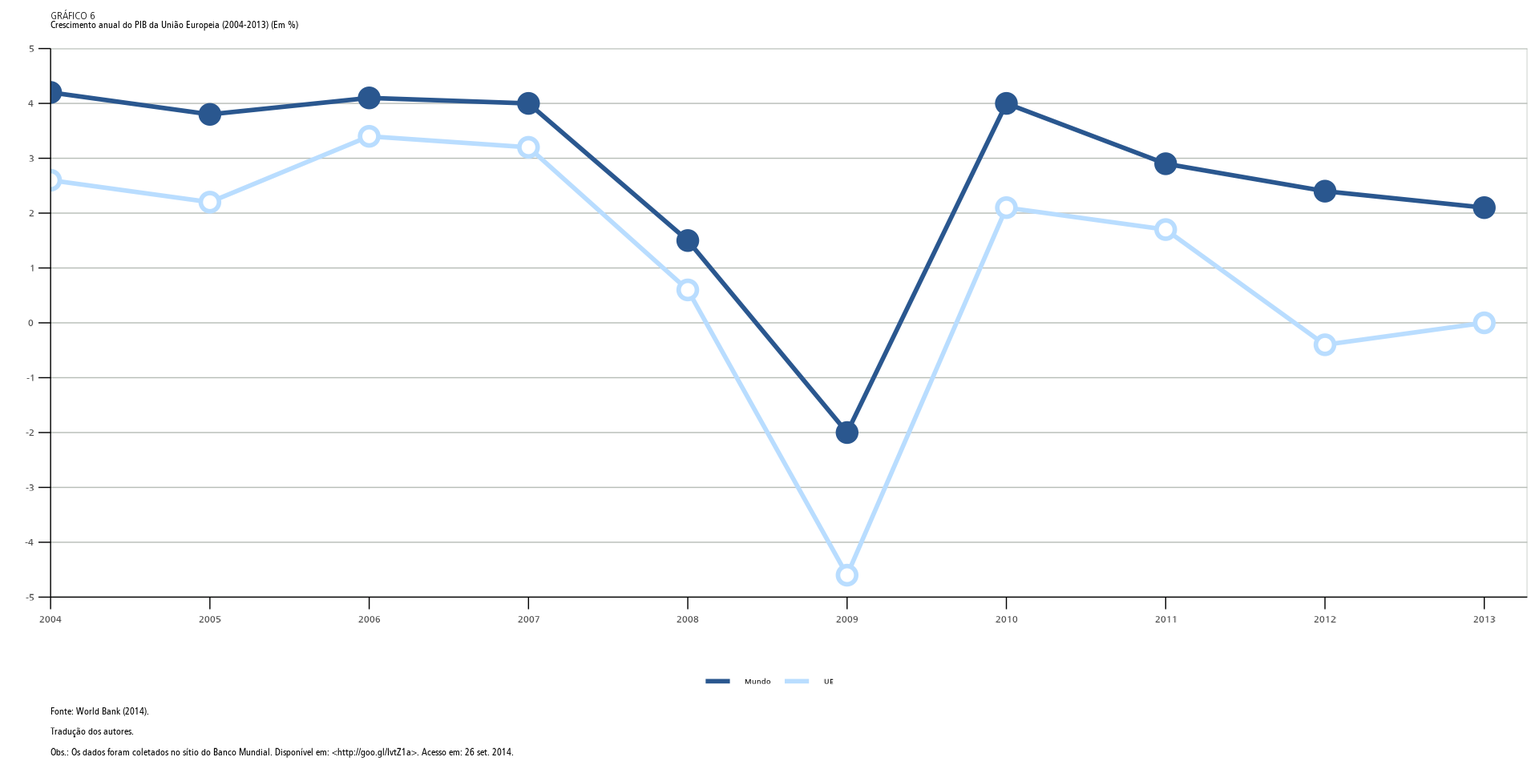
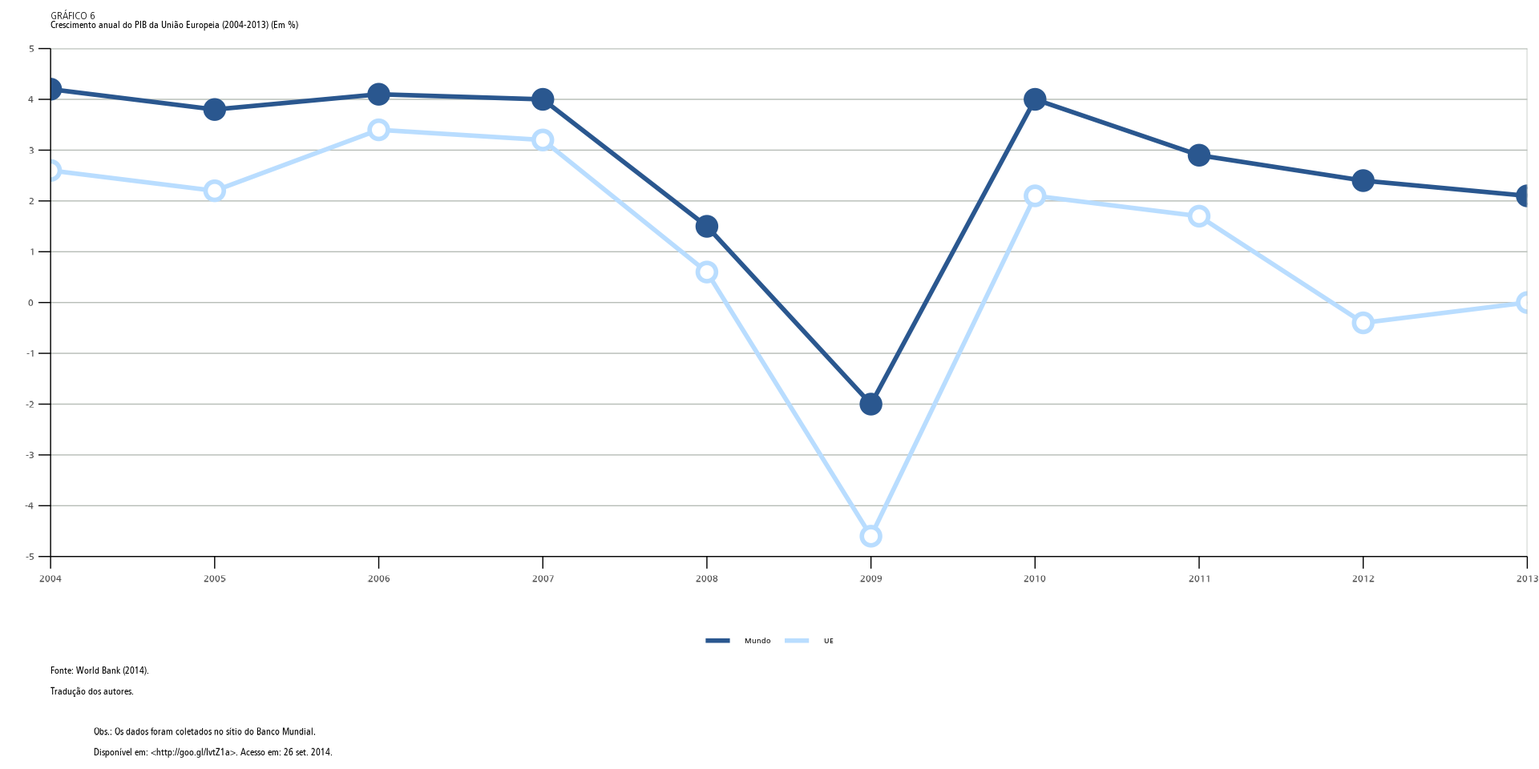
Deploying to gh-pages from @ ipeadata-lab/ipeaplot@67b5473a3718dc9c7462b4f38d9dd5089b049cbb 🚀

diff --git a/articles/cookbook.html b/articles/cookbook.html
@@ -71,7 +71,7 @@
   <main id="main" class="col-md-9"><div class="page-header">
       <img src="" class="logo" alt=""><h1>Comparativo ipeaplot</h1>
             
-            <h4 data-toc-skip class="date">2023-08-30</h4>
+            <h4 data-toc-skip class="date">2023-08-31</h4>
       
       <small class="dont-index">Source: <a href="https://github.com/ipeadata-lab/ipeaplot/blob/HEAD/vignettes/cookbook.Rmd" class="external-link"><code>vignettes/cookbook.Rmd</code></a></small>
       <div class="d-none name"><code>cookbook.Rmd</code></div>
@@ -212,9 +212,11 @@ github:</p>
 <span>                                 dec <span class="op">=</span> <span class="st">","</span>, encoding <span class="op">=</span> <span class="st">'Latin-1'</span><span class="op">)</span></span>
 <span></span>
 <span><span class="co">######## Salvando graficos no formato Rdata</span></span>
-<span><span class="fu"><a href="https://rdrr.io/r/base/save.html" class="external-link">save</a></span><span class="op">(</span><span class="va">base_graf1</span>,<span class="va">base_graf2</span>,<span class="va">base_graf3</span>,<span class="va">base_graf5</span>,<span class="va">base_graf6</span>,<span class="va">base_graf7</span>,<span class="va">base_graf8</span>,<span class="va">base_graf9</span>, <span class="va">base_graf10</span>,</span>
+<span><span class="fu"><a href="https://rdrr.io/r/base/save.html" class="external-link">save</a></span><span class="op">(</span><span class="va">base_graf1</span>,<span class="va">base_graf2</span>,<span class="va">base_graf3</span>,<span class="va">base_graf5</span>,<span class="va">base_graf6</span>,<span class="va">base_graf7</span>,<span class="va">base_graf8</span>,</span>
+<span>     <span class="va">base_graf9</span>, <span class="va">base_graf10</span>,</span>
 <span>     file<span class="op">=</span><span class="st">'bases_de_dados.Rdata'</span><span class="op">)</span></span></code></pre></div>
-<p>Gráfico 1 - Original [1] FALSE</p>
+<p>Gráfico 1 - Original
+<img src="prints_original/grafico1.png" width="100%"></p>
 <p>Gráfico 1 - Padrão ipea</p>
 <div class="sourceCode" id="cb4"><pre class="downlit sourceCode r">
 <code class="sourceCode R"><span><span class="va">graf1</span> <span class="op">&lt;-</span> <span class="fu"><a href="https://ggplot2.tidyverse.org/reference/ggplot.html" class="external-link">ggplot</a></span><span class="op">(</span>data<span class="op">=</span><span class="va">base_graf1</span>, <span class="fu"><a href="https://ggplot2.tidyverse.org/reference/aes.html" class="external-link">aes</a></span><span class="op">(</span>x<span class="op">=</span><span class="fu"><a href="https://rdrr.io/r/base/numeric.html" class="external-link">as.numeric</a></span><span class="op">(</span><span class="fu"><a href="https://rdrr.io/r/base/character.html" class="external-link">as.character</a></span><span class="op">(</span><span class="va">Ano</span><span class="op">)</span><span class="op">)</span>, y<span class="op">=</span><span class="va">Populacao</span><span class="op">)</span><span class="op">)</span> <span class="op">+</span></span>
@@ -233,12 +235,10 @@ github:</p>
 <span></span>
 <span><span class="va">graf1</span></span></code></pre></div>
 <p><img src="cookbook_files/figure-html/unnamed-chunk-6-1.png" width="100%"></p>
-<p>Gráfico 2 - Original</p>
-<div class="sourceCode" id="cb5"><pre class="downlit sourceCode r">
-<code class="sourceCode R"><span><span class="fu">knitr</span><span class="fu">::</span><span class="fu"><a href="https://rdrr.io/pkg/knitr/man/output_type.html" class="external-link">is_html_output</a></span><span class="op">(</span><span class="fu">knitr</span><span class="fu">::</span><span class="fu"><a href="https://rdrr.io/pkg/knitr/man/include_graphics.html" class="external-link">include_graphics</a></span><span class="op">(</span><span class="st">"https://github.com/ipeadata-lab/ipeaplot/blob/master/vignettes/prints_original/grafico2.png?raw=true"</span><span class="op">)</span><span class="op">)</span></span>
-<span><span class="co">#&gt; [1] FALSE</span></span></code></pre></div>
+<p>Gráfico 2 - Original
+<img src="prints_original/grafico2.png" width="100%"></p>
 <p>Gráfico 2 - Padrão Ipea</p>
-<div class="sourceCode" id="cb6"><pre class="downlit sourceCode r">
+<div class="sourceCode" id="cb5"><pre class="downlit sourceCode r">
 <code class="sourceCode R"><span><span class="va">y.breaks</span> <span class="op">&lt;-</span> <span class="fu"><a href="https://rdrr.io/r/base/cumsum.html" class="external-link">cumsum</a></span><span class="op">(</span><span class="va">base_graf2</span><span class="op">$</span><span class="va">percentual</span><span class="op">)</span> <span class="op">-</span> <span class="op">(</span><span class="va">base_graf2</span><span class="op">$</span><span class="va">percentual</span><span class="op">)</span><span class="op">/</span><span class="fl">2</span></span>
 <span><span class="va">y.breaks</span></span>
 <span><span class="co">#&gt; [1] 12.5 39.0 62.0 77.0 91.5</span></span>
@@ -259,12 +259,10 @@ github:</p>
 <span></span>
 <span><span class="va">graf2</span></span></code></pre></div>
 <p><img src="cookbook_files/figure-html/unnamed-chunk-8-1.png" width="100%"></p>
-<p>Gráfico 3 - Original</p>
-<div class="sourceCode" id="cb7"><pre class="downlit sourceCode r">
-<code class="sourceCode R"><span><span class="fu">knitr</span><span class="fu">::</span><span class="fu"><a href="https://rdrr.io/pkg/knitr/man/output_type.html" class="external-link">is_html_output</a></span><span class="op">(</span><span class="fu">knitr</span><span class="fu">::</span><span class="fu"><a href="https://rdrr.io/pkg/knitr/man/include_graphics.html" class="external-link">include_graphics</a></span><span class="op">(</span><span class="st">"https://github.com/ipeadata-lab/ipeaplot/blob/master/vignettes/prints_original/grafico3.png?raw=true"</span><span class="op">)</span><span class="op">)</span></span>
-<span><span class="co">#&gt; [1] FALSE</span></span></code></pre></div>
+<p>Gráfico 3 - Original
+<img src="prints_original/grafico3.png" width="100%"></p>
 <p>Gráfico 3 - Padrão Ipea</p>
-<div class="sourceCode" id="cb8"><pre class="downlit sourceCode r">
+<div class="sourceCode" id="cb6"><pre class="downlit sourceCode r">
 <code class="sourceCode R"><span><span class="va">base_graf3</span><span class="op">$</span><span class="va">Ano</span> <span class="op">&lt;-</span> <span class="fu"><a href="https://rdrr.io/r/base/numeric.html" class="external-link">as.numeric</a></span><span class="op">(</span><span class="fu"><a href="https://rdrr.io/r/base/character.html" class="external-link">as.character</a></span><span class="op">(</span><span class="va">base_graf3</span><span class="op">$</span><span class="va">Ano</span><span class="op">)</span><span class="op">)</span></span>
 <span><span class="va">ref</span> <span class="op">&lt;-</span> <span class="op">(</span><span class="fu"><a href="https://rdrr.io/r/base/subset.html" class="external-link">subset</a></span><span class="op">(</span><span class="va">base_graf3</span>,<span class="fu"><a href="https://rdrr.io/r/base/substr.html" class="external-link">substr</a></span><span class="op">(</span><span class="va">Ano</span>,<span class="fl">4</span>,<span class="fl">4</span><span class="op">)</span> <span class="op"><a href="https://rdrr.io/r/base/match.html" class="external-link">%in%</a></span> <span class="fu"><a href="https://rdrr.io/r/base/c.html" class="external-link">c</a></span><span class="op">(</span><span class="st">'5'</span>,<span class="st">'0'</span><span class="op">)</span><span class="op">)</span><span class="op">)</span></span>
 <span></span>
@@ -283,12 +281,10 @@ github:</p>
 <span></span>
 <span><span class="va">graf3</span></span></code></pre></div>
 <p><img src="cookbook_files/figure-html/unnamed-chunk-10-1.png" width="100%"></p>
-<p>Gráfico 4 - Padrão Original</p>
-<div class="sourceCode" id="cb9"><pre class="downlit sourceCode r">
-<code class="sourceCode R"><span><span class="fu">knitr</span><span class="fu">::</span><span class="fu"><a href="https://rdrr.io/pkg/knitr/man/output_type.html" class="external-link">is_html_output</a></span><span class="op">(</span><span class="fu">knitr</span><span class="fu">::</span><span class="fu"><a href="https://rdrr.io/pkg/knitr/man/include_graphics.html" class="external-link">include_graphics</a></span><span class="op">(</span><span class="st">"https://github.com/ipeadata-lab/ipeaplot/blob/master/vignettes/prints_original/grafico4.png?raw=true"</span><span class="op">)</span><span class="op">)</span></span>
-<span><span class="co">#&gt; [1] FALSE</span></span></code></pre></div>
+<p>Gráfico 4 - Padrão Original
+<img src="prints_original/grafico4.png" width="100%"></p>
 <p>Gráfico 4 - Padrão Ipea</p>
-<div class="sourceCode" id="cb10"><pre class="downlit sourceCode r">
+<div class="sourceCode" id="cb7"><pre class="downlit sourceCode r">
 <code class="sourceCode R"><span><span class="va">temp</span> <span class="op">&lt;-</span> <span class="va">base_graf4</span> <span class="op"><a href="https://magrittr.tidyverse.org/reference/pipe.html" class="external-link">%&gt;%</a></span> <span class="fu"><a href="https://dplyr.tidyverse.org/reference/distinct.html" class="external-link">distinct</a></span><span class="op">(</span><span class="va">pos</span>, .keep_all <span class="op">=</span> <span class="cn">T</span><span class="op">)</span></span>
 <span><span class="va">base_graf4</span> <span class="op">&lt;-</span> <span class="va">base_graf4</span> <span class="op"><a href="https://magrittr.tidyverse.org/reference/pipe.html" class="external-link">%&gt;%</a></span> <span class="fu"><a href="https://dplyr.tidyverse.org/reference/group_by.html" class="external-link">group_by</a></span><span class="op">(</span><span class="va">pos</span><span class="op">)</span> <span class="op"><a href="https://magrittr.tidyverse.org/reference/pipe.html" class="external-link">%&gt;%</a></span> <span class="fu"><a href="https://dplyr.tidyverse.org/reference/mutate.html" class="external-link">mutate</a></span><span class="op">(</span>cum_sum <span class="op">=</span> <span class="fu"><a href="https://rdrr.io/r/base/cumsum.html" class="external-link">cumsum</a></span><span class="op">(</span><span class="va">Gasto</span><span class="op">)</span><span class="op">)</span></span>
 <span><span class="va">base_graf4</span><span class="op">$</span><span class="va">Pais</span> <span class="op">&lt;-</span> <span class="fu">forcats</span><span class="fu">::</span><span class="fu"><a href="https://forcats.tidyverse.org/reference/fct_reorder.html" class="external-link">fct_reorder</a></span><span class="op">(</span><span class="va">base_graf4</span><span class="op">$</span><span class="va">Pais</span>, <span class="fu"><a href="https://dplyr.tidyverse.org/reference/desc.html" class="external-link">desc</a></span><span class="op">(</span><span class="va">base_graf4</span><span class="op">$</span><span class="va">Gasto</span><span class="op">)</span><span class="op">)</span></span>
@@ -311,12 +307,10 @@ github:</p>
 <span></span>
 <span><span class="va">graf4</span></span></code></pre></div>
 <p><img src="cookbook_files/figure-html/unnamed-chunk-12-1.png" width="100%"></p>
-<p>Gráfico 5 - Original</p>
-<div class="sourceCode" id="cb11"><pre class="downlit sourceCode r">
-<code class="sourceCode R"><span><span class="fu">knitr</span><span class="fu">::</span><span class="fu"><a href="https://rdrr.io/pkg/knitr/man/output_type.html" class="external-link">is_html_output</a></span><span class="op">(</span><span class="fu">knitr</span><span class="fu">::</span><span class="fu"><a href="https://rdrr.io/pkg/knitr/man/include_graphics.html" class="external-link">include_graphics</a></span><span class="op">(</span><span class="st">"https://github.com/ipeadata-lab/ipeaplot/blob/master/vignettes/prints_original/grafico5.png?raw=true"</span><span class="op">)</span><span class="op">)</span></span>
-<span><span class="co">#&gt; [1] FALSE</span></span></code></pre></div>
+<p>Gráfico 5 - Original
+<img src="prints_original/grafico5.png" width="100%"></p>
 <p>Gráfico 5 - Padrão Ipea</p>
-<div class="sourceCode" id="cb12"><pre class="downlit sourceCode r">
+<div class="sourceCode" id="cb8"><pre class="downlit sourceCode r">
 <code class="sourceCode R"><span><span class="va">graf5</span> <span class="op">&lt;-</span> <span class="fu"><a href="https://ggplot2.tidyverse.org/reference/ggplot.html" class="external-link">ggplot</a></span><span class="op">(</span><span class="va">base_graf5</span>, <span class="fu"><a href="https://ggplot2.tidyverse.org/reference/aes.html" class="external-link">aes</a></span><span class="op">(</span>x<span class="op">=</span><span class="va">Ano</span><span class="op">)</span><span class="op">)</span> <span class="op">+</span></span>
 <span>  <span class="fu"><a href="https://ggplot2.tidyverse.org/reference/geom_ribbon.html" class="external-link">geom_ribbon</a></span><span class="op">(</span><span class="fu"><a href="https://ggplot2.tidyverse.org/reference/aes.html" class="external-link">aes</a></span><span class="op">(</span>ymin<span class="op">=</span><span class="fl">0</span>, ymax<span class="op">=</span><span class="va">Exabytes</span><span class="op">)</span>, fill <span class="op">=</span> <span class="st">"#015f96"</span><span class="op">)</span><span class="op">+</span></span>
 <span>  <span class="fu"><a href="https://ggplot2.tidyverse.org/reference/labs.html" class="external-link">labs</a></span><span class="op">(</span>x<span class="op">=</span><span class="st">""</span>,</span>
@@ -329,12 +323,10 @@ github:</p>
 <span>             x_breaks <span class="op">=</span> <span class="fl">10</span>, y_breaks <span class="op">=</span> <span class="fl">4</span><span class="op">)</span></span>
 <span><span class="va">graf5</span></span></code></pre></div>
 <p><img src="cookbook_files/figure-html/unnamed-chunk-14-1.png" width="100%"></p>
-<p>Gráfico 6 - Original</p>
-<div class="sourceCode" id="cb13"><pre class="downlit sourceCode r">
-<code class="sourceCode R"><span><span class="fu">knitr</span><span class="fu">::</span><span class="fu"><a href="https://rdrr.io/pkg/knitr/man/output_type.html" class="external-link">is_html_output</a></span><span class="op">(</span><span class="fu">knitr</span><span class="fu">::</span><span class="fu"><a href="https://rdrr.io/pkg/knitr/man/include_graphics.html" class="external-link">include_graphics</a></span><span class="op">(</span><span class="st">"https://github.com/ipeadata-lab/ipeaplot/blob/master/vignettes/prints_original/grafico6.png?raw=true"</span><span class="op">)</span><span class="op">)</span></span>
-<span><span class="co">#&gt; [1] FALSE</span></span></code></pre></div>
+<p>Gráfico 6 - Original
+<img src="prints_original/grafico6.png" width="100%"></p>
 <p>Gráfico 6 - Padrão Ipea</p>
-<div class="sourceCode" id="cb14"><pre class="downlit sourceCode r">
+<div class="sourceCode" id="cb9"><pre class="downlit sourceCode r">
 <code class="sourceCode R"><span><span class="va">graf6</span> <span class="op">&lt;-</span> <span class="fu"><a href="https://ggplot2.tidyverse.org/reference/ggplot.html" class="external-link">ggplot</a></span><span class="op">(</span><span class="va">base_graf6</span>, <span class="fu"><a href="https://ggplot2.tidyverse.org/reference/aes.html" class="external-link">aes</a></span><span class="op">(</span><span class="va">Ano</span>, <span class="va">value</span>, group<span class="op">=</span><span class="va">variable</span>, color<span class="op">=</span><span class="va">variable</span><span class="op">)</span><span class="op">)</span><span class="op">+</span></span>
 <span>  <span class="fu"><a href="https://ggplot2.tidyverse.org/reference/geom_path.html" class="external-link">geom_line</a></span><span class="op">(</span>size<span class="op">=</span><span class="fl">1</span><span class="op">)</span><span class="op">+</span></span>
 <span>  <span class="fu"><a href="https://ggplot2.tidyverse.org/reference/geom_point.html" class="external-link">geom_point</a></span><span class="op">(</span><span class="fu"><a href="https://ggplot2.tidyverse.org/reference/aes.html" class="external-link">aes</a></span><span class="op">(</span>shape<span class="op">=</span><span class="va">variable</span>, fill <span class="op">=</span> <span class="va">variable</span><span class="op">)</span>,</span>
@@ -344,20 +336,20 @@ github:</p>
 <span>       color <span class="op">=</span> <span class="st">""</span>,</span>
 <span>       title<span class="op">=</span><span class="st">"GRÁFICO 6"</span>,</span>
 <span>       subtitle<span class="op">=</span><span class="st">"Crescimento anual do PIB da União Europeia (2004-2013) (Em %)"</span>,</span>
-<span>       caption <span class="op">=</span> <span class="st">'Fonte: World Bank (2014).\nTradução dos autores.\nObs.: Os dados foram coletados no sítio do Banco Mundial. Disponível em: &lt;http://goo.gl/IvtZ1a&gt;. Acesso em: 26 set. 2014.'</span><span class="op">)</span> <span class="op">+</span></span>
-<span>  <span class="fu"><a href="../reference/theme_ipea.html">theme_ipea</a></span><span class="op">(</span>x_breaks <span class="op">=</span> <span class="fl">8</span>, y_breaks <span class="op">=</span> <span class="fl">10</span>, legend.position <span class="op">=</span> <span class="st">'bottom'</span><span class="op">)</span> <span class="op">+</span></span>
+<span>       caption <span class="op">=</span> <span class="st">'Fonte: World Bank (2014).\nTradução dos autores.\n</span></span>
+<span><span class="st">                  Obs.: Os dados foram coletados no sítio do Banco Mundial.</span></span>
+<span><span class="st">                  Disponível em: &lt;http://goo.gl/IvtZ1a&gt;. Acesso em: 26 set. 2014.'</span><span class="op">)</span> <span class="op">+</span></span>
+<span>  <span class="fu"><a href="../reference/theme_ipea.html">theme_ipea</a></span><span class="op">(</span>x_breaks <span class="op">=</span> <span class="fl">8</span>, y_breaks <span class="op">=</span> <span class="fl">10</span>, legend.position <span class="op">=</span> <span class="st">'bottom'</span>, expand_x_limit <span class="op">=</span> <span class="cn">F</span><span class="op">)</span> <span class="op">+</span></span>
 <span>  <span class="fu"><a href="../reference/scale_color_ipea.html">scale_color_ipea</a></span><span class="op">(</span>palette_direction <span class="op">=</span> <span class="op">-</span><span class="fl">1</span>, discrete <span class="op">=</span> <span class="cn">T</span><span class="op">)</span> <span class="op">+</span></span>
 <span>  <span class="fu"><a href="https://ggplot2.tidyverse.org/reference/scale_manual.html" class="external-link">scale_shape_manual</a></span><span class="op">(</span>values <span class="op">=</span> <span class="fu"><a href="https://rdrr.io/r/base/c.html" class="external-link">c</a></span><span class="op">(</span><span class="fl">19</span>, <span class="fl">21</span><span class="op">)</span><span class="op">)</span> <span class="op">+</span></span>
 <span>  <span class="fu"><a href="https://ggplot2.tidyverse.org/reference/scale_manual.html" class="external-link">scale_fill_manual</a></span><span class="op">(</span>values <span class="op">=</span> <span class="fu"><a href="https://rdrr.io/r/base/c.html" class="external-link">c</a></span><span class="op">(</span><span class="cn">NA</span>,<span class="st">"white"</span><span class="op">)</span><span class="op">)</span></span>
 <span></span>
 <span><span class="va">graf6</span></span></code></pre></div>
 <p><img src="cookbook_files/figure-html/unnamed-chunk-16-1.png" width="100%"></p>
-<p>Gráfico 7 - Original</p>
-<div class="sourceCode" id="cb15"><pre class="downlit sourceCode r">
-<code class="sourceCode R"><span><span class="fu">knitr</span><span class="fu">::</span><span class="fu"><a href="https://rdrr.io/pkg/knitr/man/output_type.html" class="external-link">is_html_output</a></span><span class="op">(</span><span class="fu">knitr</span><span class="fu">::</span><span class="fu"><a href="https://rdrr.io/pkg/knitr/man/include_graphics.html" class="external-link">include_graphics</a></span><span class="op">(</span><span class="st">"https://github.com/ipeadata-lab/ipeaplot/blob/master/vignettes/prints_original/grafico7.png?raw=true"</span><span class="op">)</span><span class="op">)</span></span>
-<span><span class="co">#&gt; [1] FALSE</span></span></code></pre></div>
+<p>Gráfico 7 - Original
+<img src="prints_original/grafico7.png" width="100%"></p>
 <p>Gráfico 7 - Padrão Ipea</p>
-<div class="sourceCode" id="cb16"><pre class="downlit sourceCode r">
+<div class="sourceCode" id="cb10"><pre class="downlit sourceCode r">
 <code class="sourceCode R"><span><span class="va">base_graf7</span><span class="op">$</span><span class="va">pais</span><span class="op">&lt;-</span> <span class="fu"><a href="https://rdrr.io/r/base/factor.html" class="external-link">factor</a></span><span class="op">(</span><span class="va">base_graf7</span><span class="op">$</span><span class="va">pais</span>, levels<span class="op">=</span><span class="fu"><a href="https://rdrr.io/r/base/rev.html" class="external-link">rev</a></span><span class="op">(</span><span class="fu"><a href="https://rdrr.io/r/base/sort.html" class="external-link">sort</a></span><span class="op">(</span><span class="va">base_graf7</span><span class="op">$</span><span class="va">pais</span><span class="op">)</span><span class="op">)</span><span class="op">)</span></span>
 <span><span class="va">graf7</span> <span class="op">&lt;-</span> <span class="fu"><a href="https://ggplot2.tidyverse.org/reference/ggplot.html" class="external-link">ggplot</a></span><span class="op">(</span>data<span class="op">=</span><span class="va">base_graf7</span>, <span class="fu"><a href="https://ggplot2.tidyverse.org/reference/aes.html" class="external-link">aes</a></span><span class="op">(</span>x<span class="op">=</span><span class="va">pais</span>, y<span class="op">=</span><span class="va">petroleo</span><span class="op">)</span><span class="op">)</span> <span class="op">+</span></span>
 <span>  <span class="fu"><a href="https://ggplot2.tidyverse.org/reference/geom_bar.html" class="external-link">geom_bar</a></span><span class="op">(</span>stat<span class="op">=</span><span class="st">"identity"</span>, fill <span class="op">=</span> <span class="st">'#015f96'</span><span class="op">)</span> <span class="op">+</span></span>
@@ -368,15 +360,13 @@ github:</p>
 <span>       title<span class="op">=</span><span class="st">"GRÁFICO 7"</span>,</span>
 <span>       subtitle<span class="op">=</span><span class="st">"Importações de energia em termos do consumo total de energia dos países da União Europeia"</span>,</span>
 <span>       caption <span class="op">=</span> <span class="st">'Fonte: Eurostat (2014).\nTradução dos autores.'</span><span class="op">)</span> <span class="op">+</span></span>
-<span>  <span class="fu"><a href="../reference/theme_ipea.html">theme_ipea</a></span><span class="op">(</span>legend.position <span class="op">=</span> <span class="st">'none'</span><span class="op">)</span></span>
+<span>  <span class="fu"><a href="../reference/theme_ipea.html">theme_ipea</a></span><span class="op">(</span>legend.position <span class="op">=</span> <span class="st">'none'</span>, expand_x_limit <span class="op">=</span> <span class="cn">F</span><span class="op">)</span></span>
 <span><span class="va">graf7</span></span></code></pre></div>
 <p><img src="cookbook_files/figure-html/unnamed-chunk-18-1.png" width="100%"></p>
-<p>Gráfico 8 - Original</p>
-<div class="sourceCode" id="cb17"><pre class="downlit sourceCode r">
-<code class="sourceCode R"><span><span class="fu">knitr</span><span class="fu">::</span><span class="fu"><a href="https://rdrr.io/pkg/knitr/man/output_type.html" class="external-link">is_html_output</a></span><span class="op">(</span><span class="fu">knitr</span><span class="fu">::</span><span class="fu"><a href="https://rdrr.io/pkg/knitr/man/include_graphics.html" class="external-link">include_graphics</a></span><span class="op">(</span><span class="st">"https://github.com/ipeadata-lab/ipeaplot/blob/master/vignettes/prints_original/grafico8.png?raw=true"</span><span class="op">)</span><span class="op">)</span></span>
-<span><span class="co">#&gt; [1] FALSE</span></span></code></pre></div>
+<p>Gráfico 8 - Original
+<img src="prints_original/grafico8.png" width="100%"></p>
 <p>Gráfico 8 - Padrão Ipea</p>
-<div class="sourceCode" id="cb18"><pre class="downlit sourceCode r">
+<div class="sourceCode" id="cb11"><pre class="downlit sourceCode r">
 <code class="sourceCode R"><span><span class="va">base_graf8</span><span class="op">&lt;-</span> <span class="fu"><a href="https://rdrr.io/pkg/reshape/man/melt-24.html" class="external-link">melt</a></span><span class="op">(</span><span class="va">base_graf8</span>, id<span class="op">=</span><span class="fu"><a href="https://rdrr.io/r/base/c.html" class="external-link">c</a></span><span class="op">(</span><span class="st">"pais"</span><span class="op">)</span><span class="op">)</span></span>
 <span></span>
 <span><span class="va">graf8</span> <span class="op">&lt;-</span> <span class="fu"><a href="https://ggplot2.tidyverse.org/reference/ggplot.html" class="external-link">ggplot</a></span><span class="op">(</span>data<span class="op">=</span><span class="va">base_graf8</span>, <span class="fu"><a href="https://ggplot2.tidyverse.org/reference/aes.html" class="external-link">aes</a></span><span class="op">(</span>x<span class="op">=</span><span class="va">pais</span>, y<span class="op">=</span><span class="va">value</span>, group<span class="op">=</span><span class="va">variable</span>, fill<span class="op">=</span><span class="va">variable</span><span class="op">)</span><span class="op">)</span> <span class="op">+</span></span>
@@ -392,12 +382,10 @@ github:</p>
 <span>  <span class="fu"><a href="../reference/scale_fill_ipea.html">scale_fill_ipea</a></span><span class="op">(</span>discrete <span class="op">=</span> <span class="cn">T</span><span class="op">)</span></span>
 <span><span class="va">graf8</span></span></code></pre></div>
 <p><img src="cookbook_files/figure-html/unnamed-chunk-20-1.png" width="100%"></p>
-<p>Gráfico 9 - Original</p>
-<div class="sourceCode" id="cb19"><pre class="downlit sourceCode r">
-<code class="sourceCode R"><span><span class="fu">knitr</span><span class="fu">::</span><span class="fu"><a href="https://rdrr.io/pkg/knitr/man/output_type.html" class="external-link">is_html_output</a></span><span class="op">(</span><span class="fu">knitr</span><span class="fu">::</span><span class="fu"><a href="https://rdrr.io/pkg/knitr/man/include_graphics.html" class="external-link">include_graphics</a></span><span class="op">(</span><span class="st">"https://github.com/ipeadata-lab/ipeaplot/blob/master/vignettes/prints_original/grafico9.png?raw=true"</span><span class="op">)</span><span class="op">)</span></span>
-<span><span class="co">#&gt; [1] FALSE</span></span></code></pre></div>
+<p>Gráfico 9 - Original
+<img src="prints_original/grafico9.png" width="100%"></p>
 <p>Gráfico 9 - Padrão Ipea</p>
-<div class="sourceCode" id="cb20"><pre class="downlit sourceCode r">
+<div class="sourceCode" id="cb12"><pre class="downlit sourceCode r">
 <code class="sourceCode R"><span><span class="co">######## GRAFICO 9</span></span>
 <span><span class="va">base_graf9_aux</span> <span class="op">&lt;-</span> <span class="va">base_graf9</span><span class="op">[</span>,<span class="fu"><a href="https://rdrr.io/r/base/c.html" class="external-link">c</a></span><span class="op">(</span><span class="fl">1</span>,<span class="fl">4</span><span class="op">)</span><span class="op">]</span></span>
 <span><span class="va">base_graf9_aux</span><span class="op">$</span><span class="va">n</span> <span class="op">&lt;-</span> <span class="fl">1</span><span class="op">:</span><span class="fu"><a href="https://rdrr.io/r/base/nrow.html" class="external-link">nrow</a></span><span class="op">(</span><span class="va">base_graf9_aux</span><span class="op">)</span></span>
@@ -420,7 +408,8 @@ github:</p>
 <span>       title<span class="op">=</span><span class="st">"GRÁFICO 9"</span>,</span>
 <span>       subtitle<span class="op">=</span><span class="st">"Crescimento médio real do PIB em PPC (2011-2050) (Em %)"</span>,</span>
 <span>       caption <span class="op">=</span> <span class="st">'Fonte: PwC (2014).\nTradução dos autores'</span><span class="op">)</span> <span class="op">+</span></span>
-<span>  <span class="fu"><a href="https://ggplot2.tidyverse.org/reference/geom_path.html" class="external-link">geom_line</a></span><span class="op">(</span>data<span class="op">=</span><span class="va">base_graf9_aux</span>, <span class="fu"><a href="https://ggplot2.tidyverse.org/reference/aes.html" class="external-link">aes</a></span><span class="op">(</span>x<span class="op">=</span><span class="va">n</span> ,y<span class="op">=</span><span class="va">`crescimento do PIB (ppc)_perct`</span>, group <span class="op">=</span> <span class="fl">1</span><span class="op">)</span>, color <span class="op">=</span> <span class="st">'gray'</span><span class="op">)</span> <span class="op">+</span></span>
+<span>  <span class="fu"><a href="https://ggplot2.tidyverse.org/reference/geom_path.html" class="external-link">geom_line</a></span><span class="op">(</span>data<span class="op">=</span><span class="va">base_graf9_aux</span>, <span class="fu"><a href="https://ggplot2.tidyverse.org/reference/aes.html" class="external-link">aes</a></span><span class="op">(</span>x<span class="op">=</span><span class="va">n</span> ,y<span class="op">=</span><span class="va">`crescimento do PIB (ppc)_perct`</span>, group <span class="op">=</span> <span class="fl">1</span><span class="op">)</span>,</span>
+<span>            color <span class="op">=</span> <span class="st">'gray'</span><span class="op">)</span> <span class="op">+</span></span>
 <span>  <span class="fu"><a href="https://ggplot2.tidyverse.org/reference/scale_continuous.html" class="external-link">scale_x_continuous</a></span><span class="op">(</span>breaks <span class="op">=</span> <span class="fl">1</span><span class="op">:</span><span class="fu"><a href="https://rdrr.io/r/base/Extremes.html" class="external-link">max</a></span><span class="op">(</span><span class="va">base_graf9</span><span class="op">$</span><span class="va">n</span><span class="op">)</span>, labels <span class="op">=</span> <span class="va">label</span><span class="op">)</span> <span class="op">+</span></span>
 <span>  <span class="fu"><a href="../reference/scale_fill_ipea.html">scale_fill_ipea</a></span><span class="op">(</span>discrete <span class="op">=</span> <span class="cn">T</span><span class="op">)</span> <span class="op">+</span></span>
 <span>  <span class="fu"><a href="../reference/theme_ipea.html">theme_ipea</a></span><span class="op">(</span>legend.position <span class="op">=</span> <span class="st">'bottom'</span>, x_text_angle <span class="op">=</span> <span class="fl">90</span>, include_ticks <span class="op">=</span> <span class="cn">F</span><span class="op">)</span> <span class="op">+</span></span>
@@ -430,12 +419,10 @@ github:</p>
 <span></span>
 <span><span class="va">graf9</span></span></code></pre></div>
 <p><img src="cookbook_files/figure-html/unnamed-chunk-22-1.png" width="100%"></p>
-<p>Gráfico 10 - Original</p>
-<div class="sourceCode" id="cb21"><pre class="downlit sourceCode r">
-<code class="sourceCode R"><span><span class="fu">knitr</span><span class="fu">::</span><span class="fu"><a href="https://rdrr.io/pkg/knitr/man/output_type.html" class="external-link">is_html_output</a></span><span class="op">(</span><span class="fu">knitr</span><span class="fu">::</span><span class="fu"><a href="https://rdrr.io/pkg/knitr/man/include_graphics.html" class="external-link">include_graphics</a></span><span class="op">(</span><span class="st">"https://github.com/ipeadata-lab/ipeaplot/blob/master/vignettes/prints_original/grafico10.png?raw=true"</span><span class="op">)</span><span class="op">)</span></span>
-<span><span class="co">#&gt; [1] FALSE</span></span></code></pre></div>
+<p>Gráfico 10 - Original
+<img src="prints_original/grafico10.png" width="100%"></p>
 <p>Gráfico 10 - Padrão Ipea</p>
-<div class="sourceCode" id="cb22"><pre class="downlit sourceCode r">
+<div class="sourceCode" id="cb13"><pre class="downlit sourceCode r">
 <code class="sourceCode R"><span><span class="va">base_graf10</span> <span class="op">&lt;-</span> <span class="va">base_graf10</span> <span class="op"><a href="https://magrittr.tidyverse.org/reference/pipe.html" class="external-link">%&gt;%</a></span></span>
 <span>  <span class="fu"><a href="https://dplyr.tidyverse.org/reference/mutate.html" class="external-link">mutate</a></span><span class="op">(</span>PIB <span class="op">=</span> <span class="fu"><a href="https://rdrr.io/r/base/numeric.html" class="external-link">as.numeric</a></span><span class="op">(</span><span class="va">PIB</span><span class="op">)</span>,</span>
 <span>         variacao_PIB <span class="op">=</span> <span class="op">(</span><span class="op">(</span><span class="va">PIB</span><span class="op">/</span><span class="fu"><a href="https://dplyr.tidyverse.org/reference/lead-lag.html" class="external-link">lag</a></span><span class="op">(</span><span class="va">PIB</span>,<span class="fl">1</span><span class="op">)</span><span class="op">)</span> <span class="op">-</span> <span class="fl">1</span><span class="op">)</span><span class="op">*</span><span class="fl">100</span>,</span>
@@ -472,7 +459,8 @@ github:</p>
 <span>       fill <span class="op">=</span> <span class="st">""</span>,</span>
 <span>       title<span class="op">=</span><span class="st">"GRÁFICO 10"</span>,</span>
 <span>       subtitle<span class="op">=</span><span class="st">"Variação anual do PIB) (Em %)"</span>,</span>
-<span>       caption <span class="op">=</span> <span class="st">'Fonte: Sistema de Contas Nacionais do IBGE e Ipeadata.\nElaboração do autor.'</span><span class="op">)</span> <span class="op">+</span></span>
+<span>       caption <span class="op">=</span> <span class="st">'Fonte: Sistema de Contas Nacionais do IBGE e Ipeadata.\n</span></span>
+<span><span class="st">                  Elaboração do autor.'</span><span class="op">)</span> <span class="op">+</span></span>
 <span>  <span class="fu"><a href="../reference/theme_ipea.html">theme_ipea</a></span><span class="op">(</span>legend.position <span class="op">=</span> <span class="st">'bottom'</span>, x_breaks <span class="op">=</span> <span class="fl">10</span><span class="op">)</span></span>
 <span></span>
 <span><span class="va">graf10</span></span></code></pre></div>

diff --git a/reference/scale_fill_ipea.html b/reference/scale_fill_ipea.html
@@ -63,7 +63,7 @@ Economic Research (IPEA)</p>
     <h2 id="ref-usage">Usage<a class="anchor" aria-label="anchor" href="#ref-usage"></a></h2>
     <div class="sourceCode"><pre class="sourceCode r"><code><span><span class="fu">scale_fill_ipea</span><span class="op">(</span></span>
 <span>  discrete <span class="op">=</span> <span class="cn">F</span>,</span>
-<span>  palette <span class="op">=</span> <span class="fu"><a href="https://rdrr.io/r/base/c.html" class="external-link">c</a></span><span class="op">(</span><span class="st">"Blue"</span>, <span class="st">"Green"</span>, <span class="st">"Orange"</span>, <span class="st">"Pink"</span>, <span class="st">"Green-Blue"</span>, <span class="st">"Red-Blue"</span>, <span class="st">"Blue-Green"</span>,</span>
+<span>  palette <span class="op">=</span> <span class="fu"><a href="https://rdrr.io/r/base/c.html" class="external-link">c</a></span><span class="op">(</span><span class="st">"Blue"</span>, <span class="st">"Green"</span>, <span class="st">"Orange"</span>, <span class="st">"Pink"</span>, <span class="st">"Green-Blue"</span>, <span class="st">"Red-Blue"</span>, <span class="st">"Green-Blue"</span>,</span>
 <span>    <span class="st">"Orange-Blue"</span>, <span class="st">"Viridis"</span>, <span class="st">"Inferno"</span>, <span class="st">"Magma"</span>, <span class="st">"Plasma"</span>, <span class="st">"Cividis"</span><span class="op">)</span>,</span>
 <span>  palette_direction <span class="op">=</span> <span class="fl">1</span>,</span>
 <span>  decimal.mark <span class="op">=</span> <span class="st">","</span>,</span>
@@ -85,7 +85,7 @@ continuous scale bar. The default value is continuous.</p></dd>
 <dt>palette</dt>
 <dd><p>A character vector specifying the available palette for the
 fill palette. The default palette are <code>"Blue"</code>, but we can also change
-to <code>'Green'</code>, <code>'Orange'</code>, <code>'Pink'</code>, <code>'Red-Blue'</code>, <code>'Orange-Blue'</code>,<code>'Blue-Green'</code>,
+to <code>'Green'</code>, <code>'Orange'</code>, <code>'Pink'</code>, <code>'Red-Blue'</code>, <code>'Orange-Blue'</code>,<code>'Green-Blue'</code>,
 <code>'Viridis'</code>, <code>'Inferno'</code>, <code>'Magma'</code>, <code>'Plasma'</code>, <code>'Cividis'</code>.</p></dd>
 
 

diff --git a/reference/scale_color_ipea.html b/reference/scale_color_ipea.html
@@ -63,7 +63,7 @@ Research - Ipea.</p>
     <h2 id="ref-usage">Usage<a class="anchor" aria-label="anchor" href="#ref-usage"></a></h2>
     <div class="sourceCode"><pre class="sourceCode r"><code><span><span class="fu">scale_color_ipea</span><span class="op">(</span></span>
 <span>  discrete <span class="op">=</span> <span class="cn">F</span>,</span>
-<span>  palette <span class="op">=</span> <span class="fu"><a href="https://rdrr.io/r/base/c.html" class="external-link">c</a></span><span class="op">(</span><span class="st">"Blue"</span>, <span class="st">"Green"</span>, <span class="st">"Orange"</span>, <span class="st">"Pink"</span>, <span class="st">"Green-Blue"</span>, <span class="st">"Red-Blue"</span>, <span class="st">"Blue-Green"</span>,</span>
+<span>  palette <span class="op">=</span> <span class="fu"><a href="https://rdrr.io/r/base/c.html" class="external-link">c</a></span><span class="op">(</span><span class="st">"Blue"</span>, <span class="st">"Green"</span>, <span class="st">"Orange"</span>, <span class="st">"Pink"</span>, <span class="st">"Green-Blue"</span>, <span class="st">"Red-Blue"</span>, <span class="st">"Green-Blue"</span>,</span>
 <span>    <span class="st">"Orange-Blue"</span>, <span class="st">"Viridis"</span>, <span class="st">"Inferno"</span>, <span class="st">"Magma"</span>, <span class="st">"Plasma"</span>, <span class="st">"Cividis"</span><span class="op">)</span>,</span>
 <span>  palette_direction <span class="op">=</span> <span class="fl">1</span>,</span>
 <span>  pt_br <span class="op">=</span> <span class="cn">T</span>,</span>
@@ -85,7 +85,7 @@ continuous scale bar. The default value is continuous.</p></dd>
 <dt>palette</dt>
 <dd><p>A character vector specifying the available palette for the
 color palette. The default palette are <code>"Blue"</code>, but we can also change
-to <code>'Green'</code>, <code>'Orange'</code>, <code>'Pink'</code>, <code>'Red-Blue'</code>, <code>'Orange-Blue'</code>, <code>'Blue-Green'</code>,
+to <code>'Green'</code>, <code>'Orange'</code>, <code>'Pink'</code>, <code>'Red-Blue'</code>, <code>'Orange-Blue'</code>, <code>'Green-Blue'</code>,
 <code>'Viridis'</code>, <code>'Inferno'</code>, <code>'Magma'</code>, <code>'Plasma'</code>, <code>'Cividis'</code>.</p></dd>
 
 

diff --git a/reference/ipea_palette.html b/reference/ipea_palette.html
@@ -59,8 +59,8 @@ along the selected color map.</p>
     <div class="section level2">
     <h2 id="ref-usage">Usage<a class="anchor" aria-label="anchor" href="#ref-usage"></a></h2>
     <div class="sourceCode"><pre class="sourceCode r"><code><span><span class="fu">ipea_palette</span><span class="op">(</span></span>
-<span>  palette <span class="op">=</span> <span class="fu"><a href="https://rdrr.io/r/base/c.html" class="external-link">c</a></span><span class="op">(</span><span class="st">"Blue"</span>, <span class="st">"Green"</span>, <span class="st">"Orange"</span>, <span class="st">"Pink"</span>, <span class="st">"Green-Blue"</span>, <span class="st">"Red-Blue"</span>, <span class="st">"Blue-Green"</span>,</span>
-<span>    <span class="st">"Orange-Blue"</span>, <span class="st">"Viridis"</span>, <span class="st">"Inferno"</span>, <span class="st">"Magma"</span>, <span class="st">"Plasma"</span>, <span class="st">"Cividis"</span><span class="op">)</span>,</span>
+<span>  palette <span class="op">=</span> <span class="fu"><a href="https://rdrr.io/r/base/c.html" class="external-link">c</a></span><span class="op">(</span><span class="st">"Blue"</span>, <span class="st">"Green"</span>, <span class="st">"Orange"</span>, <span class="st">"Pink"</span>, <span class="st">"Green-Blue"</span>, <span class="st">"Red-Blue"</span>, <span class="st">"Orange-Blue"</span>,</span>
+<span>    <span class="st">"Viridis"</span>, <span class="st">"Inferno"</span>, <span class="st">"Magma"</span>, <span class="st">"Plasma"</span>, <span class="st">"Cividis"</span><span class="op">)</span>,</span>
 <span>  <span class="va">n</span>,</span>
 <span>  alpha <span class="op">=</span> <span class="fl">1</span>,</span>
 <span>  begin <span class="op">=</span> <span class="fl">0</span>,</span>
@@ -79,7 +79,7 @@ These options are available:</p><ul><li><p>'Blue'</p></li>
 <li><p>'Pink'</p></li>
 <li><p>'Red-Blue'</p></li>
 <li><p>'Orange-Blue'</p></li>
-<li><p>'Blue-Green'</p></li>
+<li><p>'Green-Blue'</p></li>
 <li><p>'Viridis'</p></li>
 <li><p>'Inferno'</p></li>
 <li><p>'Magma'</p></li>

diff --git a/reference/ipea_pal.html b/reference/ipea_pal.html
@@ -56,8 +56,8 @@
     <div class="section level2">
     <h2 id="ref-usage">Usage<a class="anchor" aria-label="anchor" href="#ref-usage"></a></h2>
     <div class="sourceCode"><pre class="sourceCode r"><code><span><span class="fu">ipea_pal</span><span class="op">(</span></span>
-<span>  palette <span class="op">=</span> <span class="fu"><a href="https://rdrr.io/r/base/c.html" class="external-link">c</a></span><span class="op">(</span><span class="st">"Blue"</span>, <span class="st">"Green"</span>, <span class="st">"Orange"</span>, <span class="st">"Pink"</span>, <span class="st">"Green-Blue"</span>, <span class="st">"Red-Blue"</span>, <span class="st">"Blue-Green"</span>,</span>
-<span>    <span class="st">"Orange-Blue"</span>, <span class="st">"Viridis"</span>, <span class="st">"Inferno"</span>, <span class="st">"Magma"</span>, <span class="st">"Plasma"</span>, <span class="st">"Cividis"</span><span class="op">)</span>,</span>
+<span>  palette <span class="op">=</span> <span class="fu"><a href="https://rdrr.io/r/base/c.html" class="external-link">c</a></span><span class="op">(</span><span class="st">"Blue"</span>, <span class="st">"Green"</span>, <span class="st">"Orange"</span>, <span class="st">"Pink"</span>, <span class="st">"Green-Blue"</span>, <span class="st">"Red-Blue"</span>, <span class="st">"Orange-Blue"</span>,</span>
+<span>    <span class="st">"Viridis"</span>, <span class="st">"Inferno"</span>, <span class="st">"Magma"</span>, <span class="st">"Plasma"</span>, <span class="st">"Cividis"</span><span class="op">)</span>,</span>
 <span>  alpha <span class="op">=</span> <span class="fl">1</span>,</span>
 <span>  begin <span class="op">=</span> <span class="fl">0</span>,</span>
 <span>  end <span class="op">=</span> <span class="fl">1</span>,</span>
@@ -75,7 +75,7 @@ These options are available:</p><ul><li><p>'Blue'</p></li>
 <li><p>'Pink'</p></li>
 <li><p>'Red-Blue'</p></li>
 <li><p>'Orange-Blue'</p></li>
-<li><p>'Blue-Green'</p></li>
+<li><p>'Green-Blue'</p></li>
 <li><p>'Viridis'</p></li>
 <li><p>'Inferno'</p></li>
 <li><p>'Magma'</p></li>

diff --git a/articles/intro_ipeaplot.html b/articles/intro_ipeaplot.html
@@ -71,7 +71,7 @@
   <main id="main" class="col-md-9"><div class="page-header">
       <img src="" class="logo" alt=""><h1>Introduction to ipeaplot</h1>
             
-            <h4 data-toc-skip class="date">2023-08-30</h4>
+            <h4 data-toc-skip class="date">2023-08-31</h4>
       
       <small class="dont-index">Source: <a href="https://github.com/ipeadata-lab/ipeaplot/blob/HEAD/vignettes/intro_ipeaplot.Rmd" class="external-link"><code>vignettes/intro_ipeaplot.Rmd</code></a></small>
       <div class="d-none name"><code>intro_ipeaplot.Rmd</code></div>
